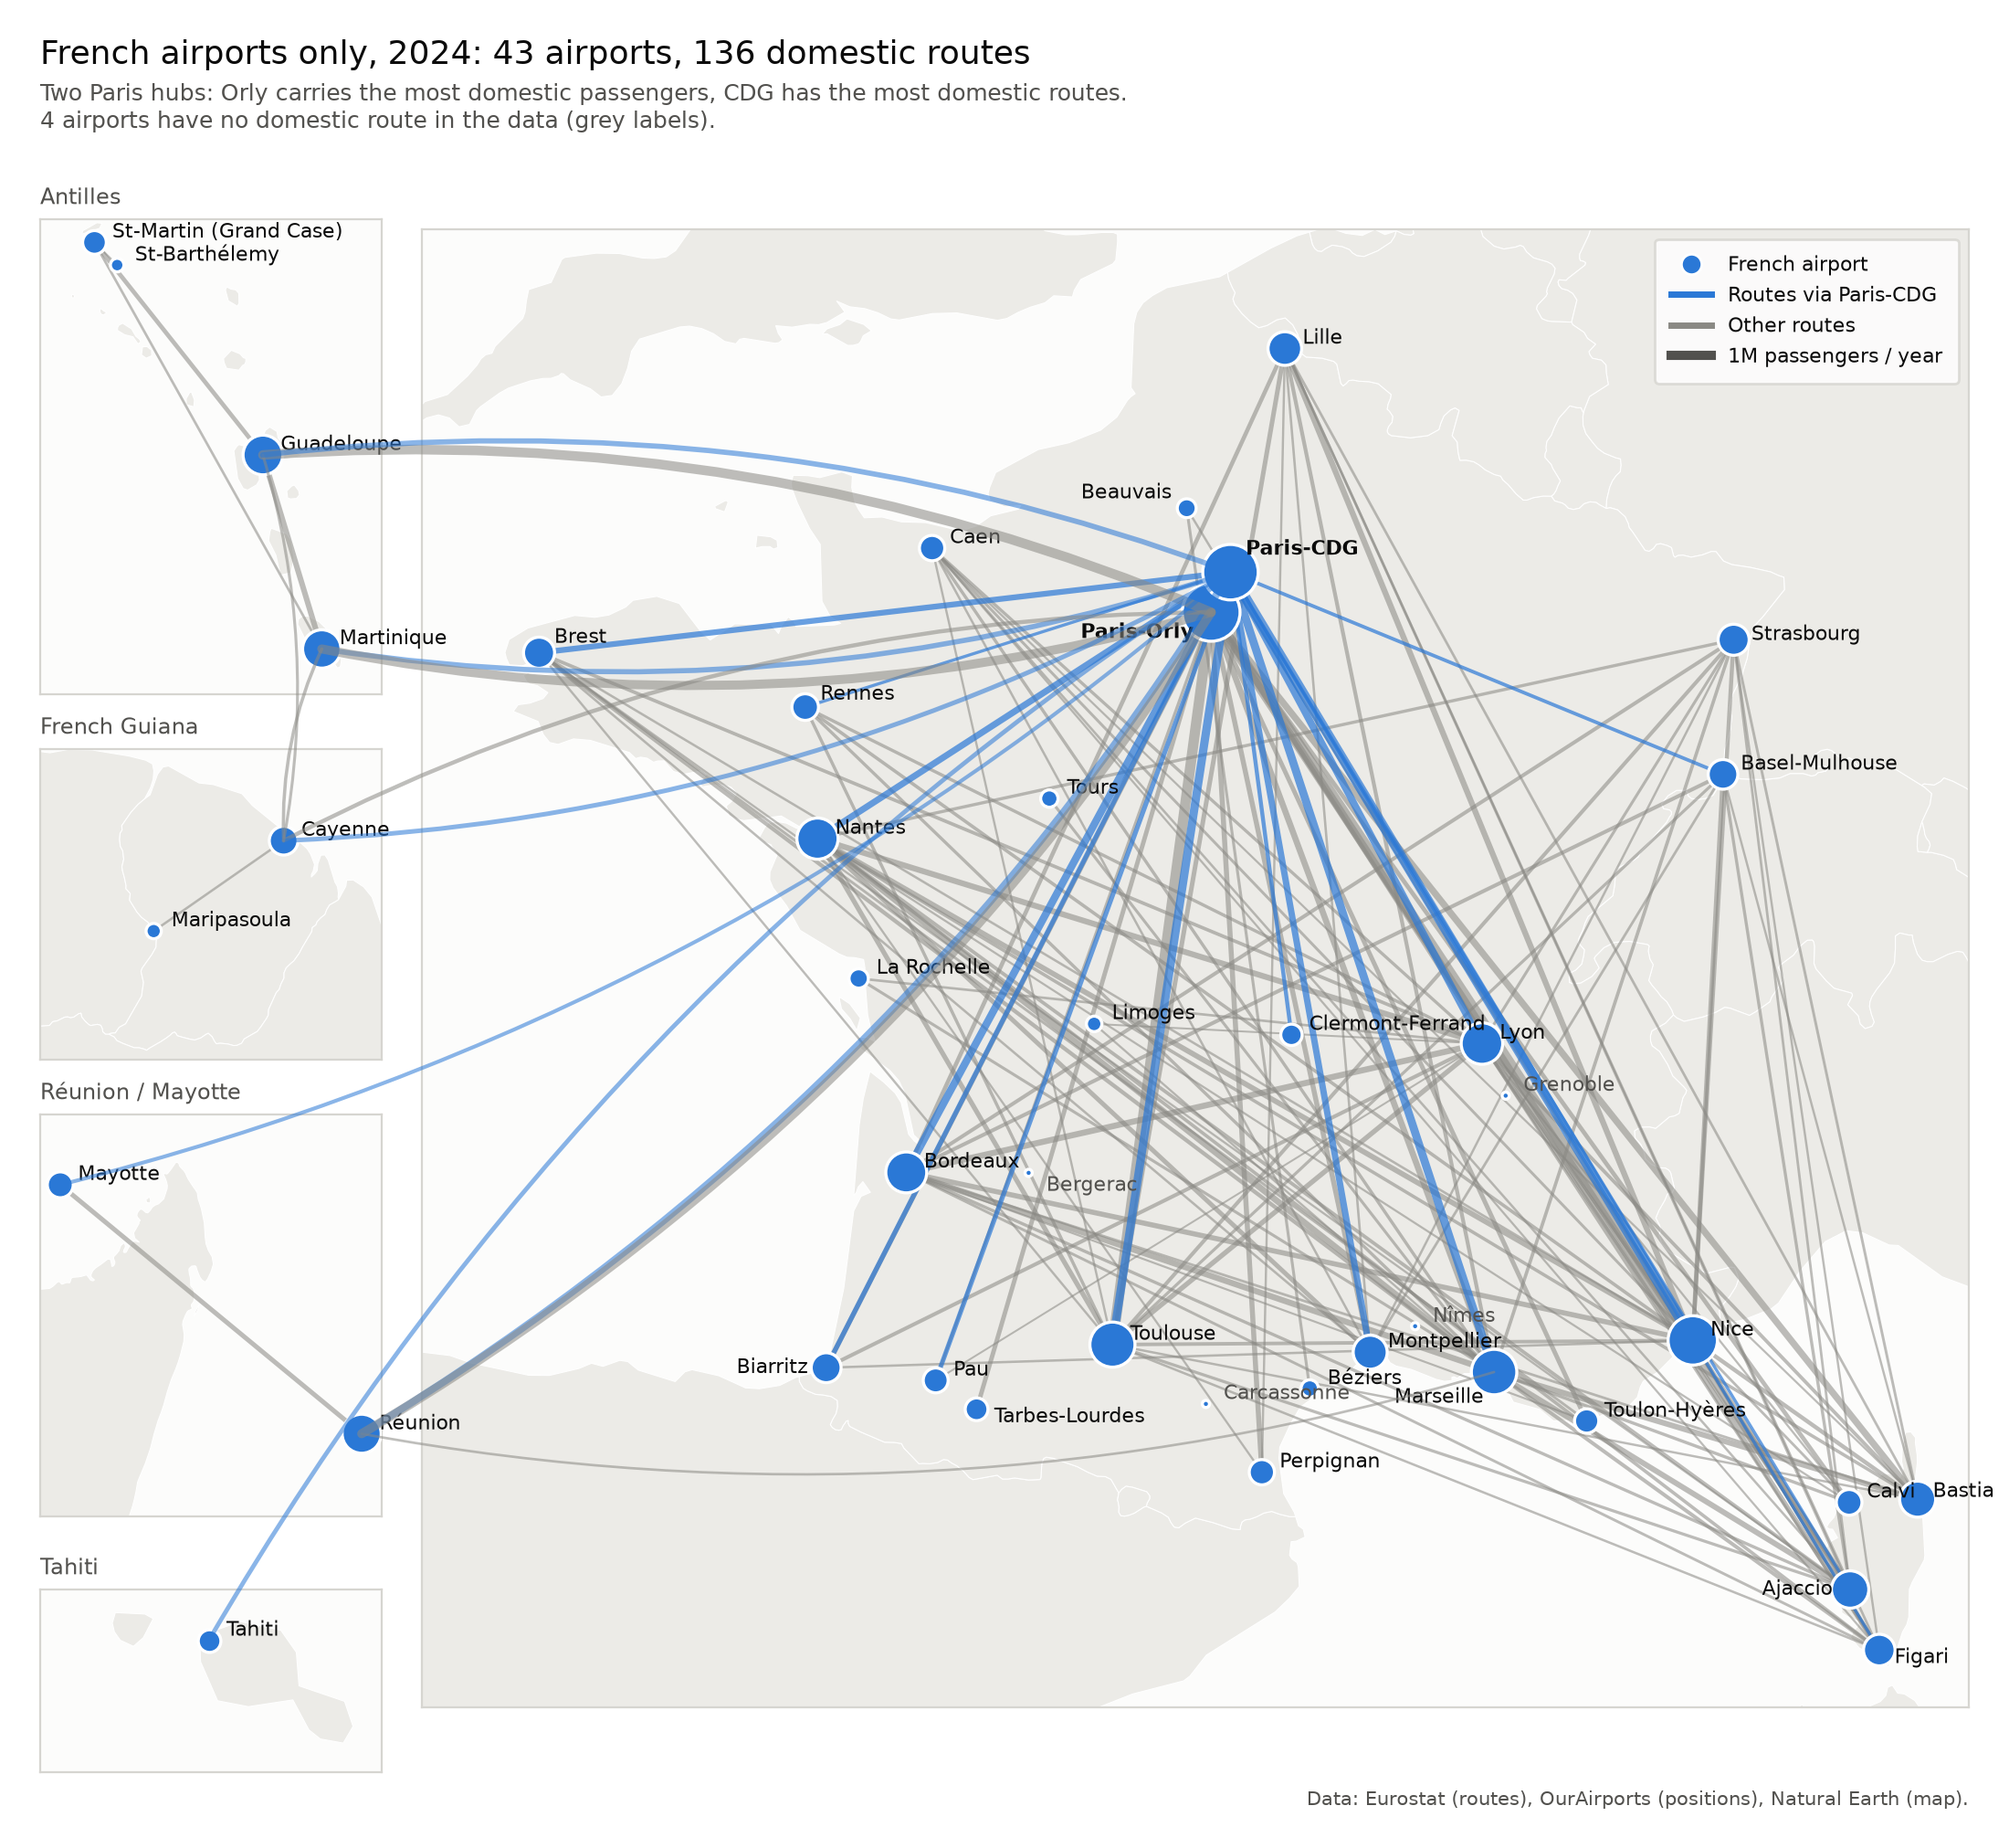
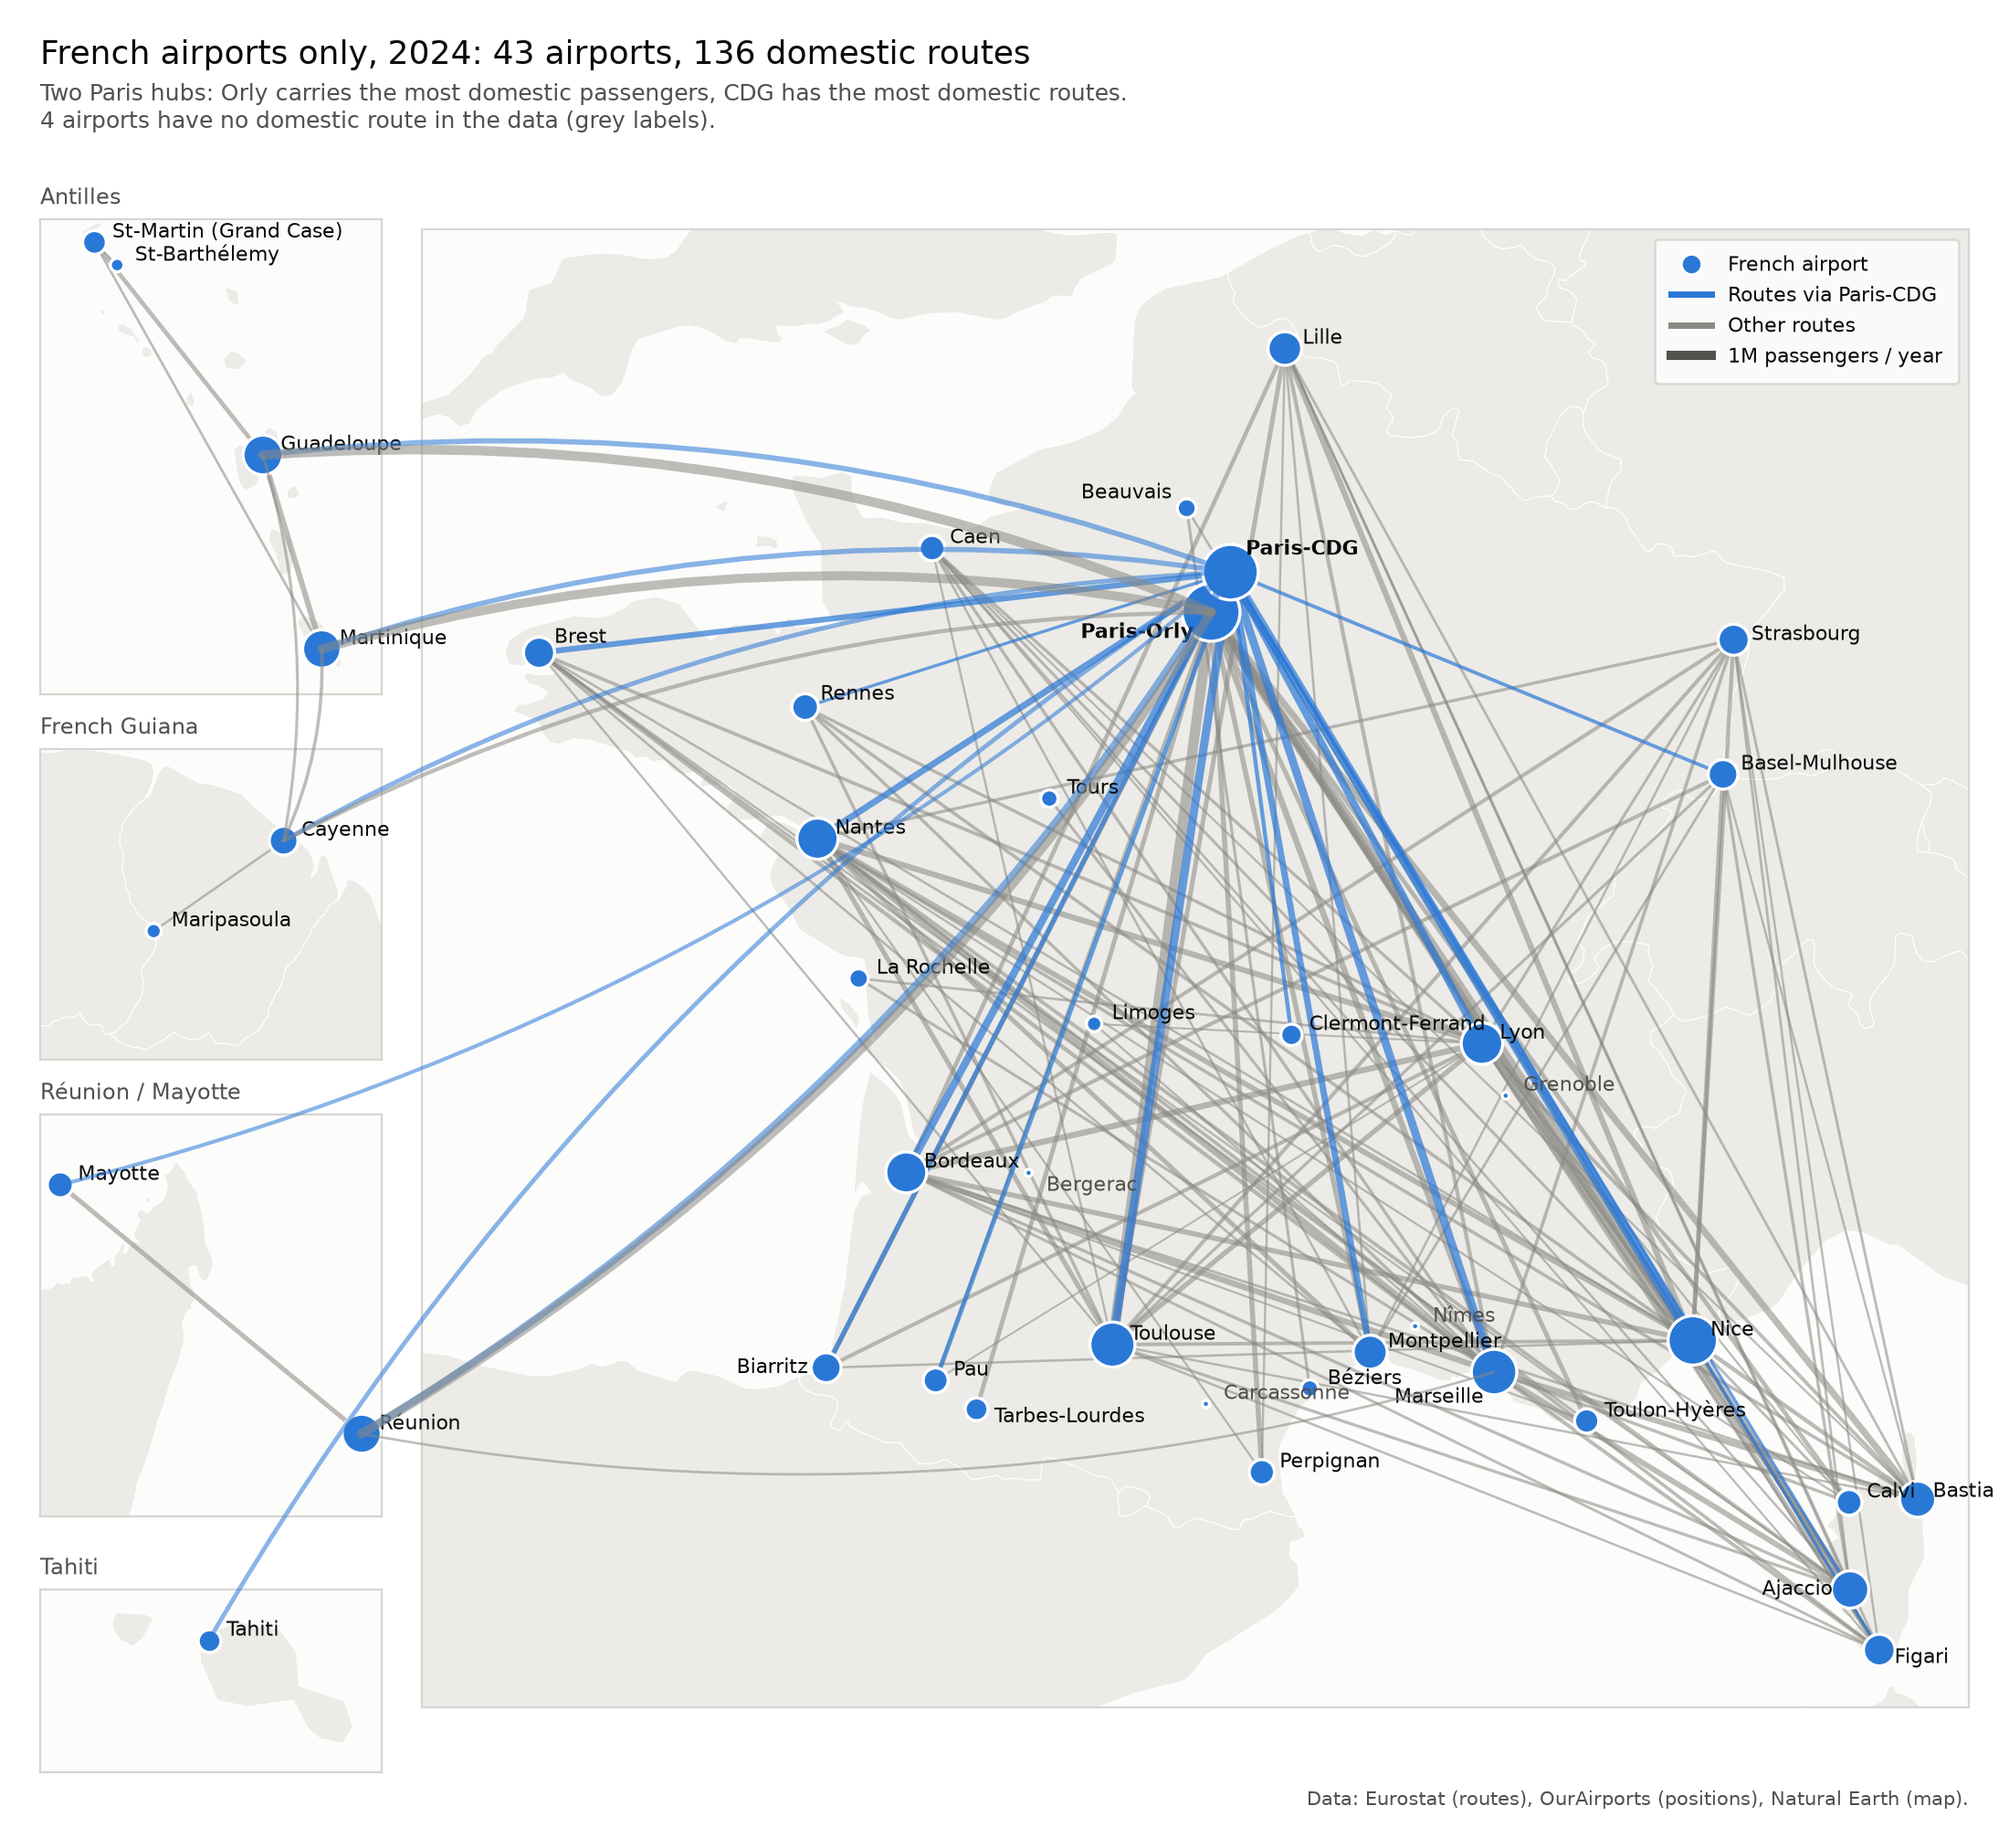
Network maps: same image on every run
map_french built the French subgraph with G.subgraph(), which iterates a set:
the orientation of each edge, and so the side the overseas connector arcs bend
to, changed with Python's string hashing. It now uses views.domestic_graph
(sorted order), and draw_edges draws the routes in sorted order. Both maps are
now byte-identical across hash seeds.

Changed region(s): [[0.1545, 0.279, 0.6182, 0.403], [0.1236, 0.434, 0.1855, 0.465]]

diff --git a/src/network_map.py b/src/network_map.py
@@ -35,6 +35,7 @@ from matplotlib.lines import Line2D
 from matplotlib.patches import ConnectionPatch
 
 from build_graph import MAIN_YEAR, build_graph
+from views import domestic_graph
 
 ROOT = Path(__file__).resolve().parents[1]
 EXTERNAL = ROOT / "data" / "external"
@@ -131,7 +132,9 @@ def draw_edges(ax, G, xy, pmax, great=True, alpha=0.55):
     """Hub routes in blue on top of the other routes in grey."""
     for hub_pass in (False, True):
         segs, widths = [], []
-        for u, v, p in G.edges(data="passengers"):
+        # sorted: a subgraph view iterates its nodes as a set, so the drawing
+        # order (and antialiasing where lines overlap) would depend on hashing
+        for u, v, p in sorted((min(u, v), max(u, v), p) for u, v, p in G.edges(data="passengers")):
             if (HUB in (u, v)) != hub_pass:
                 continue
             (x1, y1), (x2, y2) = xy[u], xy[v]
@@ -237,7 +240,10 @@ METRO_EXTENT = (-5.6, 10.0, 41.1, 51.4)
 
 
 def map_french(G, coords, rings, path):
-    F = G.subgraph([n for n, f in G.nodes(data="french") if f]).copy()
+    # domestic_graph builds F in sorted order: G.subgraph() iterates a set, so the
+    # orientation of each edge (and the side the connector arcs bend to) changed
+    # with Python's string hashing from one run to the next
+    F = domestic_graph(G)
     xy = positions(F, coords)
     pmax = max(p for _, _, p in F.edges(data="passengers"))
     smax = max(s for _, s in F.degree(weight="passengers"))
